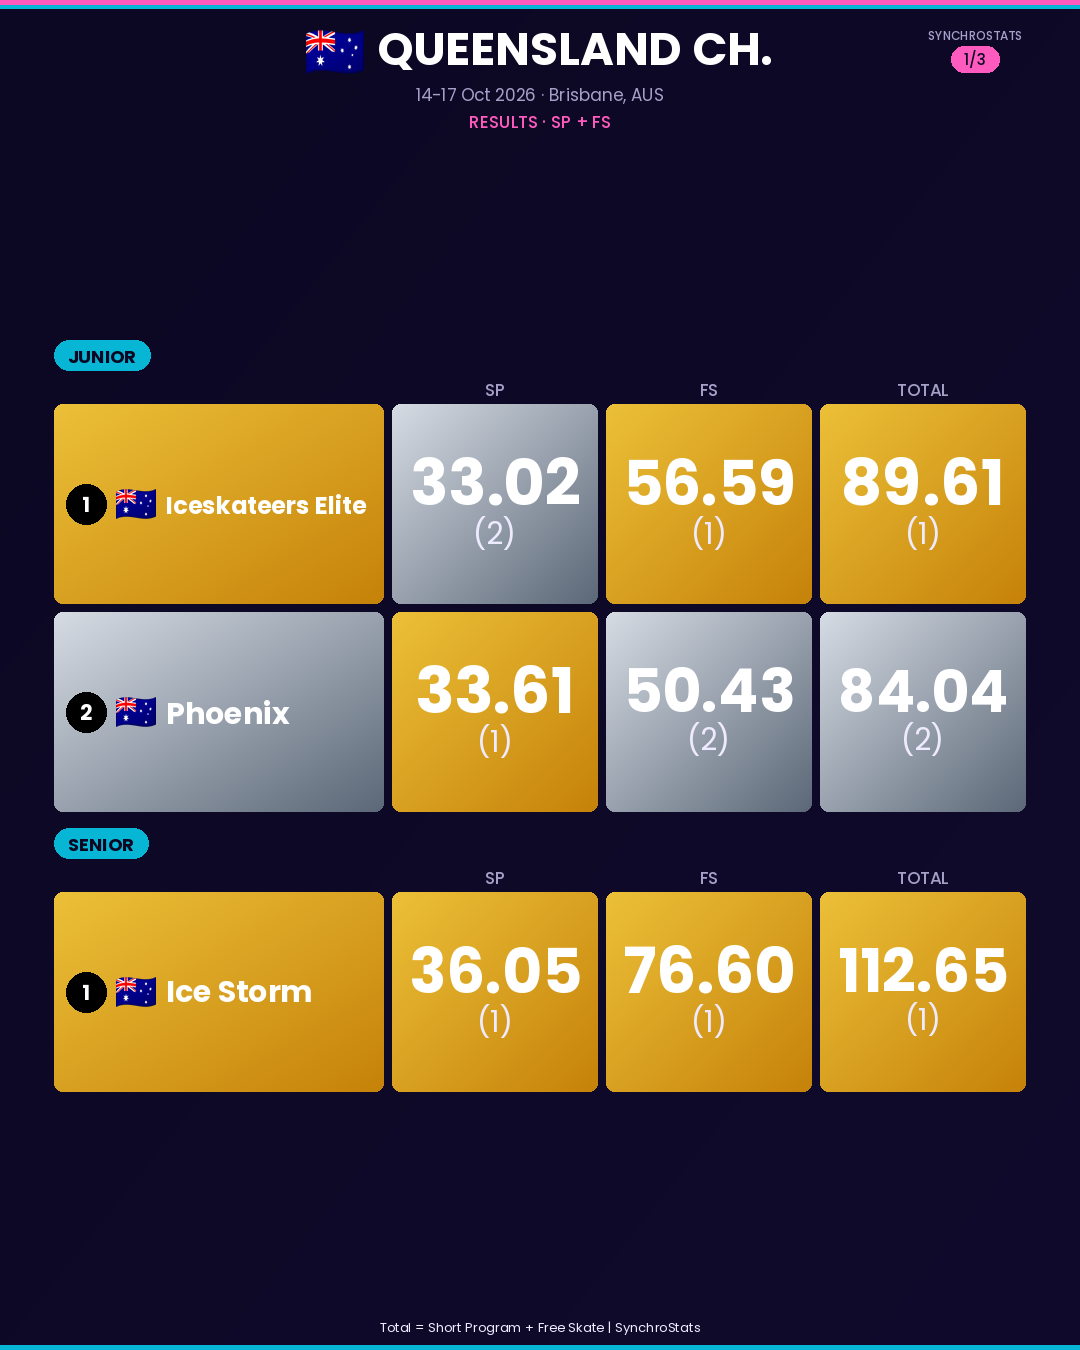
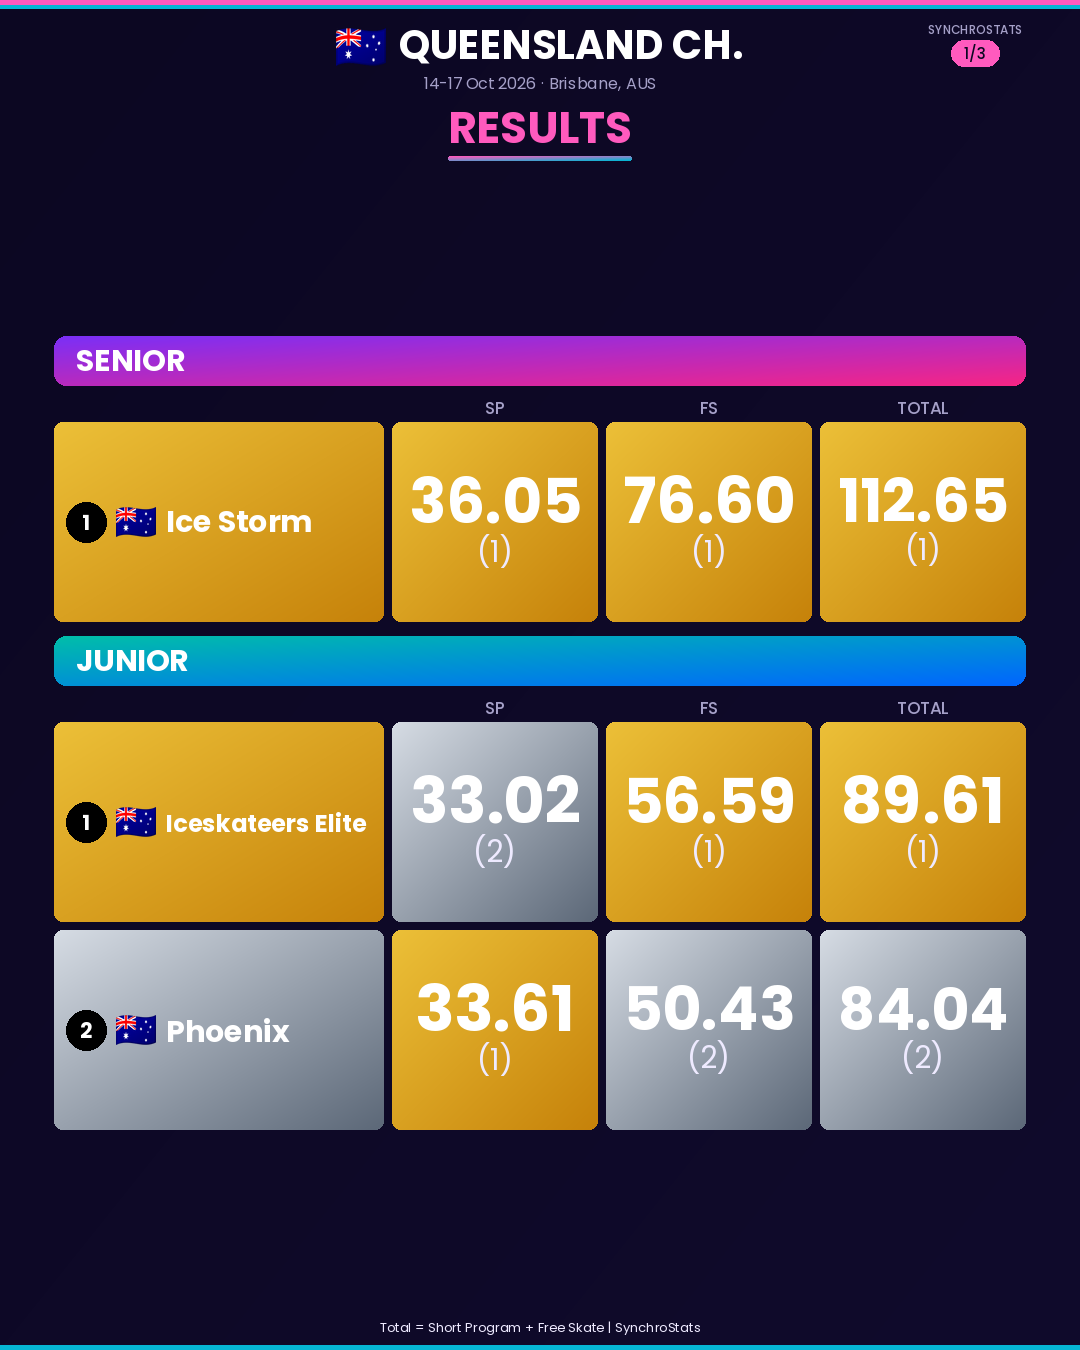
Mise à jour des résultats

diff --git a/posts/queensland-ch-2026/index.html b/posts/queensland-ch-2026/index.html
@@ -15,12 +15,12 @@ button+button{background:#ff5abe}pre{white-space:pre-wrap;background:#161036;pad
 <button onclick="copier('cap0', this)">📋 Copier la légende</button></div>
 <pre id="cap0">📍 Queensland Ch. (14-17 Oct) 🇦🇺
 
+🔹 Senior
+• Team Ice Storm — 112.65 (SP 36.05 | FS 76.60)
+
 🔹 Junior
 🥇 Team Iceskateers Elite — 89.61 (SP 33.02 | FS 56.59)
 🥈 Team Phoenix — 84.04 (SP 33.61 | FS 50.43)
-
-🔹 Senior
-• Team Ice Storm — 112.65 (SP 36.05 | FS 76.60)
 
 📈 Follow every team&#x27;s progression throughout the season on our website.
 
@@ -30,7 +30,7 @@ button+button{background:#ff5abe}pre{white-space:pre-wrap;background:#161036;pad
 
 ⚠ Scores compiled from official results — let us know if you spot any discrepancy!
 
-#SynchroSkating #SynchronizedSkating #QueenslandChampionships #AusSynchro #SynchroStats #FigureSkating #SynchroFamily #IceSkating #TeamIceskateersElite #TeamPhoenix #TeamIceStorm</pre>
+#SynchroSkating #SynchronizedSkating #QueenslandChampionships #AusSynchro #SynchroStats #FigureSkating #SynchroFamily #IceSkating #TeamIceStorm #TeamIceskateersElite #TeamPhoenix</pre>
 </section>
 <script>
 async function partager(fichiers, b){
